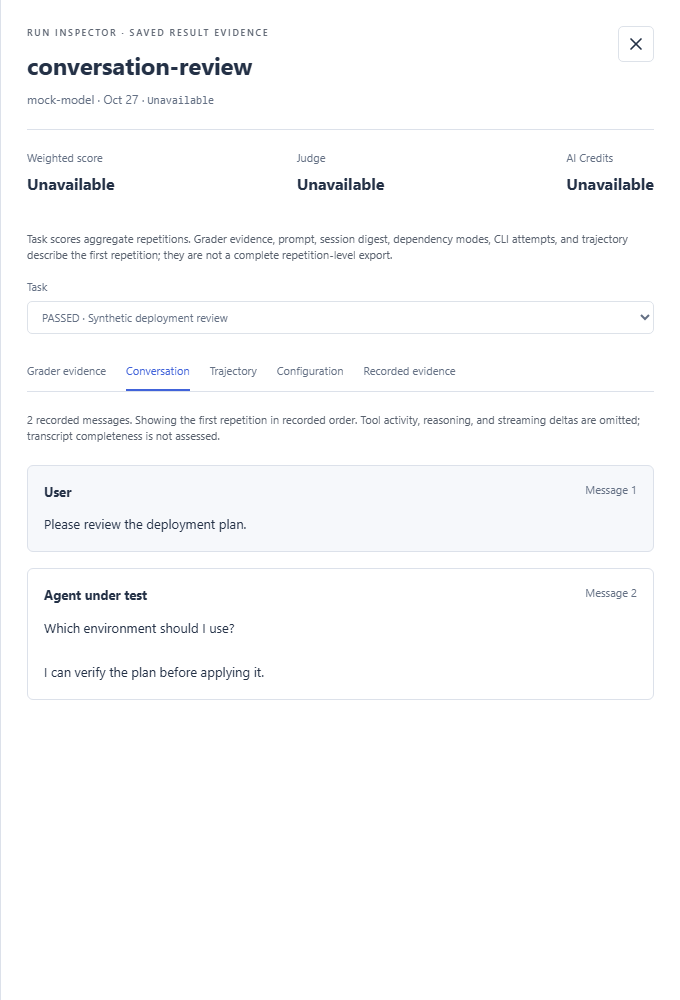
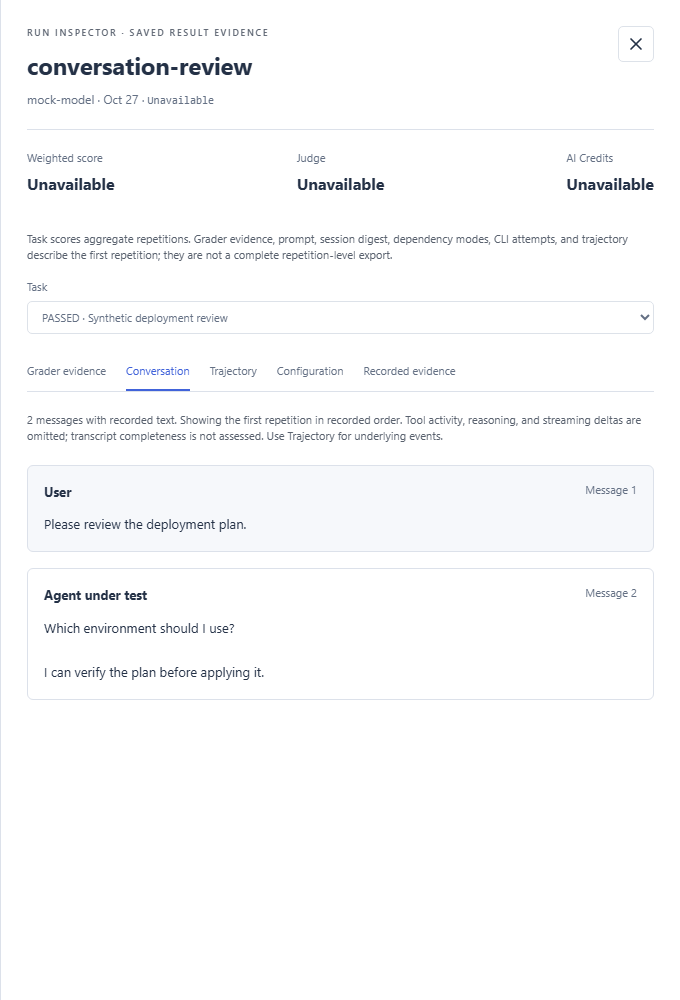
fix: preserve conversation metadata and qualify visible text counts

Changed region(s): [[0.0618, 0.403, 0.9265, 0.465]]

diff --git a/web/e2e/dashboard-lab-conversation.spec.ts b/web/e2e/dashboard-lab-conversation.spec.ts
@@ -64,7 +64,7 @@ test.describe("Lab conversation", () => {
       )).toBeVisible();
       await expect(messages.nth(index).locator(".lab-message-heading span")).toHaveText(`Message ${index + 1}`);
     }
-    await expect(dialog).toContainText("7 recorded messages.");
+    await expect(dialog).toContainText("7 messages with recorded text.");
     await expect(dialog).not.toContainText("No message text recorded.");
     await expect(dialog).toContainText("Responder recorded 2 simulated-user follow-ups.");
     await expect(dialog).toContainText("Individual user messages do not record human or simulated provenance.");
@@ -97,7 +97,7 @@ test.describe("Lab conversation", () => {
     const task = dialog.getByRole("combobox", { name: "Task", exact: true });
     for (const id of ["absent", "empty", "tools"]) {
       await task.selectOption(`id:${id}`);
-      await expect(dialog).toContainText("No recorded conversation messages for this task.");
+      await expect(dialog).toContainText("No recorded conversation text for this task.");
       await expect(dialog.getByRole("list", { name: "Recorded conversation" })).toHaveCount(0);
       await expect(dialog).not.toContainText("PROMPT_IS_NOT_A_TRANSCRIPT");
     }
@@ -120,10 +120,29 @@ test.describe("Lab conversation", () => {
     });
     for (const id of ["empty-messages", "textless"]) {
       await dialog.getByRole("combobox", { name: "Task", exact: true }).selectOption(`id:${id}`);
-      await expect(dialog).toContainText("No recorded conversation messages for this task.");
+      await expect(dialog).toContainText("No recorded conversation text for this task.");
       await expect(dialog.getByRole("list", { name: "Recorded conversation" })).toHaveCount(0);
       await expect(dialog).not.toContainText("No message text recorded.");
       await expect(dialog).not.toContainText("Responder recorded");
+    }
+  });
+
+  test("preserves independent responder counts without recorded message text", async ({ page }) => {
+    const dialog = await openConversation(page, {
+      ...CONVERSATION_DETAIL,
+      tasks: [0, 1, 2].map((followupsSent) => ({
+        ...CONVERSATION_DETAIL.tasks[0]!, id: `responder-${followupsSent}`,
+        transcript: textlessMessages,
+        responder: { followupsSent, outcome: "stopped" },
+      })),
+    });
+    for (const count of [0, 1, 2]) {
+      await dialog.getByRole("combobox", { name: "Task", exact: true }).selectOption(`id:responder-${count}`);
+      await expect(dialog).toContainText("No recorded conversation text for this task.");
+      await expect(dialog).toContainText("Use Trajectory for underlying events.");
+      await expect(dialog.getByRole("list", { name: "Recorded conversation" })).toHaveCount(0);
+      await expect(dialog).toContainText(`Responder recorded ${count} simulated-user ${count === 1 ? "follow-up" : "follow-ups"}.`);
+      await expect(dialog).toContainText("Individual user messages do not record human or simulated provenance.");
     }
   });
 
@@ -149,7 +168,7 @@ test.describe("Lab conversation", () => {
     await expect(messages).toHaveCount(1);
     await expect(messages.locator(".lab-message-content")).toHaveText("0");
     await expect(messages.locator(".lab-message-heading span")).toHaveText("Message 1");
-    await expect(dialog).toContainText("1 recorded message.");
+    await expect(dialog).toContainText("1 message with recorded text.");
     await expect(dialog).not.toContainText("No message text recorded.");
   });
 

diff --git a/web/src/lab/ConversationView.tsx b/web/src/lab/ConversationView.tsx
@@ -8,22 +8,22 @@ export default function ConversationView({ task }: { task?: TaskResult }) {
       event.content.trim().length > 0,
   );
 
-  if (!messages.length) {
-    return (
-      <p className="lab-note">
-        No recorded conversation messages for this task. Prompts, grader feedback,
-        and tool events are not reconstructed into a conversation.
-      </p>
-    );
-  }
-
   return (
     <section aria-label="Task conversation">
-      <p className="lab-note">
-        {messages.length} recorded {messages.length === 1 ? "message" : "messages"}.
-        Showing the first repetition in recorded order. Tool activity, reasoning,
-        and streaming deltas are omitted; transcript completeness is not assessed.
-      </p>
+      {messages.length ? (
+        <p className="lab-note">
+          {messages.length} {messages.length === 1 ? "message" : "messages"} with
+          recorded text. Showing the first repetition in recorded order. Tool
+          activity, reasoning, and streaming deltas are omitted; transcript
+          completeness is not assessed. Use Trajectory for underlying events.
+        </p>
+      ) : (
+        <p className="lab-note">
+          No recorded conversation text for this task. Use Trajectory for
+          underlying events. Prompts, grader feedback, and tool events are not
+          reconstructed into a conversation.
+        </p>
+      )}
       {task?.responder && (
         <p className="lab-note">
           Responder recorded {task.responder.followupsSent} simulated-user{" "}
@@ -31,22 +31,24 @@ export default function ConversationView({ task }: { task?: TaskResult }) {
           Individual user messages do not record human or simulated provenance.
         </p>
       )}
-      <ol className="lab-conversation" aria-label="Recorded conversation">
-        {messages.map((event, index) => (
-          <li
-            key={index}
-            className={event.type === "user.message" ? "lab-message-user" : "lab-message-agent"}
-          >
-            <div className="lab-message-heading">
-              <strong>
-                {event.type === "user.message" ? "User" : "Agent under test"}
-              </strong>
-              <span>Message {index + 1}</span>
-            </div>
-            <div className="lab-message-content">{event.content}</div>
-          </li>
-        ))}
-      </ol>
+      {messages.length > 0 && (
+        <ol className="lab-conversation" aria-label="Recorded conversation">
+          {messages.map((event, index) => (
+            <li
+              key={index}
+              className={event.type === "user.message" ? "lab-message-user" : "lab-message-agent"}
+            >
+              <div className="lab-message-heading">
+                <strong>
+                  {event.type === "user.message" ? "User" : "Agent under test"}
+                </strong>
+                <span>Message {index + 1}</span>
+              </div>
+              <div className="lab-message-content">{event.content}</div>
+            </li>
+          ))}
+        </ol>
+      )}
     </section>
   );
 }

diff --git a/web/dist/index.html b/web/dist/index.html
@@ -4,7 +4,7 @@
     <meta charset="UTF-8" />
     <meta name="viewport" content="width=device-width, initial-scale=1.0" />
     <title>waza — eval dashboard</title>
-    <script type="module" crossorigin src="/assets/index-DNXBFtmr.js"></script>
+    <script type="module" crossorigin src="/assets/index-Dk_U5ES2.js"></script>
     <link rel="modulepreload" crossorigin href="/assets/rolldown-runtime-BWaJ3C7D.js">
     <link rel="stylesheet" crossorigin href="/assets/index-DVpua-aE.css">
   </head>
